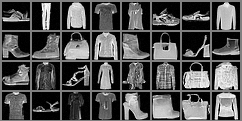
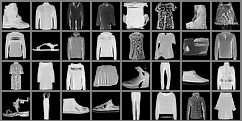
Added DiT examples

diff --git a/examples/fashion_mnist_dit.py b/examples/fashion_mnist_dit.py
@@ -1,0 +1,38 @@
+import torch
+from accelerate import Accelerator
+from torch.utils.data import DataLoader
+from torchvision import transforms as tf
+from torchvision.datasets import FashionMNIST
+from torchvision.utils import make_grid, save_image
+from torch_ema import ExponentialMovingAverage as EMA
+from tqdm import tqdm
+
+from smalldiffusion import ScheduleDDPM, samples, training_loop, MappedDataset, DiT
+
+# Setup
+accelerator = Accelerator()
+dataset = MappedDataset(FashionMNIST('datasets', train=True, download=True,
+                                     transform=tf.Compose([
+                                         tf.RandomHorizontalFlip(),
+                                         tf.ToTensor(),
+                                         tf.Lambda(lambda t: (t * 2) - 1)
+                                     ])),
+                        lambda x: x[0])
+loader = DataLoader(dataset, batch_size=1024, shuffle=True)
+schedule = ScheduleDDPM(beta_start=0.0001, beta_end=0.02, N=1000)
+model = DiT(in_dim=28, channels=1,
+            patch_size=2, depth=6, head_dim=32, num_heads=6, mlp_ratio=4.0)
+
+# Train
+trainer = training_loop(loader, model, schedule, epochs=300, lr=1e-3, accelerator=accelerator)
+ema = EMA(model.parameters(), decay=0.99)
+ema.to(accelerator.device)
+for ns in trainer:
+    ns.pbar.set_description(f'Loss={ns.loss.item():.5}')
+    ema.update()
+
+# Sample
+with ema.average_parameters():
+    *xt, x0 = samples(model, schedule.sample_sigmas(20), gam=1.6, batchsize=64, accelerator=accelerator)
+    save_image(((make_grid(x0) + 1)/2).clamp(0, 1), 'fashion_mnist_samples.png')
+    torch.save(model.state_dict(), 'checkpoint.pth')

diff --git a/README.md b/README.md
@@ -37,26 +37,33 @@ losses   = [ns.loss.item() for ns in trainer]
 Results on various toy datasets:
 
 <p align="center">
-  <img src="https://github.com/yuanchenyang/smalldiffusion/blob/main/imgs/toy_models.png" width=100%>
+  <img src="https://raw.githubusercontent.com/yuanchenyang/smalldiffusion/main/imgs/toy_models.png" width=100%>
 </p>
 
-### U-Net models
-The same code can be used to train [U-Net-based models][unet-py]. To
-train a model on the FashionMNIST dataset and generate a batch of samples (after
-first running `accelerate config`):
+### Diffusion Transformer
+We provide [a concise implementation][model-code] of the diffusion transformer introduced in
+[[Peebles and Xie 2022]][dit-paper]. To train a model on the FashionMNIST dataset and
+generate a batch of samples (after first running `accelerate config`):
 
 ```
-accelerate launch examples/fashion_mnist.py
+accelerate launch examples/fashion_mnist_dit.py
 ```
 
 With the provided default parameters and training on a single GPU for around 2
 hours, the model can achieve a [FID
 score](https://paperswithcode.com/sota/image-generation-on-fashion-mnist) of
-around 12-13, producing the following generated outputs:
+around 5-6, producing the following generated outputs:
 
 <p align="center">
-  <img src="https://github.com/yuanchenyang/smalldiffusion/blob/main/imgs/fashion-mnist-samples.png" width=50%>
+  <img src="https://raw.githubusercontent.com/yuanchenyang/smalldiffusion/main/imgs/fashion-mnist-samples.png" width=50%>
 </p>
+
+### U-Net models
+The same code can be used to train [U-Net-based models][unet-py].
+
+```
+accelerate launch examples/fashion_mnist_unet.py
+```
 
 ### StableDiffusion
 smalldiffusion's sampler works with any pretrained diffusion model, and supports
@@ -82,7 +89,7 @@ schedules, as demonstrated in [examples/stablediffusion.py][stablediffusion]. A
 few examples on tweaking the parameter `gam`:
 
 <p align="center">
-  <img src="https://github.com/yuanchenyang/smalldiffusion/blob/main/imgs/sd_examples.jpg" width=100%>
+  <img src="https://raw.githubusercontent.com/yuanchenyang/smalldiffusion/main/imgs/sd_examples.jpg" width=100%>
 </p>
 
 
@@ -141,7 +148,7 @@ Three schedules are provided:
 
 The following plot shows these three schedules with default parameters.
 <p align="center">
-  <img src="https://github.com/yuanchenyang/smalldiffusion/blob/main/imgs/schedule.png" width=40%>
+  <img src="https://raw.githubusercontent.com/yuanchenyang/smalldiffusion/main/imgs/schedule.png" width=40%>
 </p>
 
 ### Training
@@ -174,15 +181,17 @@ and implemented in only 5 lines of code, see Appendix A of [[Permenter and
 Yuan]][arxiv-url].
 
 
-[diffusion-py]: https://github.com/yuanchenyang/smalldiffusion/blob/main/src/smalldiffusion/diffusion.py
-[unet-py]: https://github.com/yuanchenyang/smalldiffusion/blob/main/examples/unet.py
-[diffusers-wrapper]: https://github.com/yuanchenyang/smalldiffusion/blob/main/examples/diffusers_wrapper.py
-[stablediffusion]: https://github.com/yuanchenyang/smalldiffusion/blob/main/examples/stablediffusion.py
-[build-img]: https://github.com/yuanchenyang/smalldiffusion/workflows/CI/badge.svg
-[build-url]: https://github.com/yuanchenyang/smalldiffusion/actions?query=workflow%3ACI
-[pypi-img]: https://img.shields.io/badge/pypi-blue
-[pypi-url]: https://pypi.org/project/smalldiffusion/
-[blog-img]: https://img.shields.io/badge/Tutorial-blogpost-blue
-[blog-url]: https://www.chenyang.co/diffusion.html
-[arxiv-img]: https://img.shields.io/badge/Paper-arxiv-blue
-[arxiv-url]: https://arxiv.org/abs/2306.04848
+[diffusion-py]:https://github.com/yuanchenyang/smalldiffusion/blob/main/src/smalldiffusion/diffusion.py
+[unet-py]:https://github.com/yuanchenyang/smalldiffusion/blob/main/examples/unet.py
+[diffusers-wrapper]:https://github.com/yuanchenyang/smalldiffusion/blob/main/examples/diffusers_wrapper.py
+[stablediffusion]:https://github.com/yuanchenyang/smalldiffusion/blob/main/examples/stablediffusion.py
+[build-img]:https://github.com/yuanchenyang/smalldiffusion/workflows/CI/badge.svg
+[build-url]:https://github.com/yuanchenyang/smalldiffusion/actions?query=workflow%3ACI
+[pypi-img]:https://img.shields.io/badge/pypi-blue
+[pypi-url]:https://pypi.org/project/smalldiffusion/
+[dit-paper]:https://arxiv.org/abs/2212.09748
+[model-code]:https://github.com/yuanchenyang/smalldiffusion/blob/main/src/smalldiffusion/model.py
+[blog-img]:https://img.shields.io/badge/Tutorial-blogpost-blue
+[blog-url]:https://www.chenyang.co/diffusion.html
+[arxiv-img]:https://img.shields.io/badge/Paper-arxiv-blue
+[arxiv-url]:https://arxiv.org/abs/2306.04848
